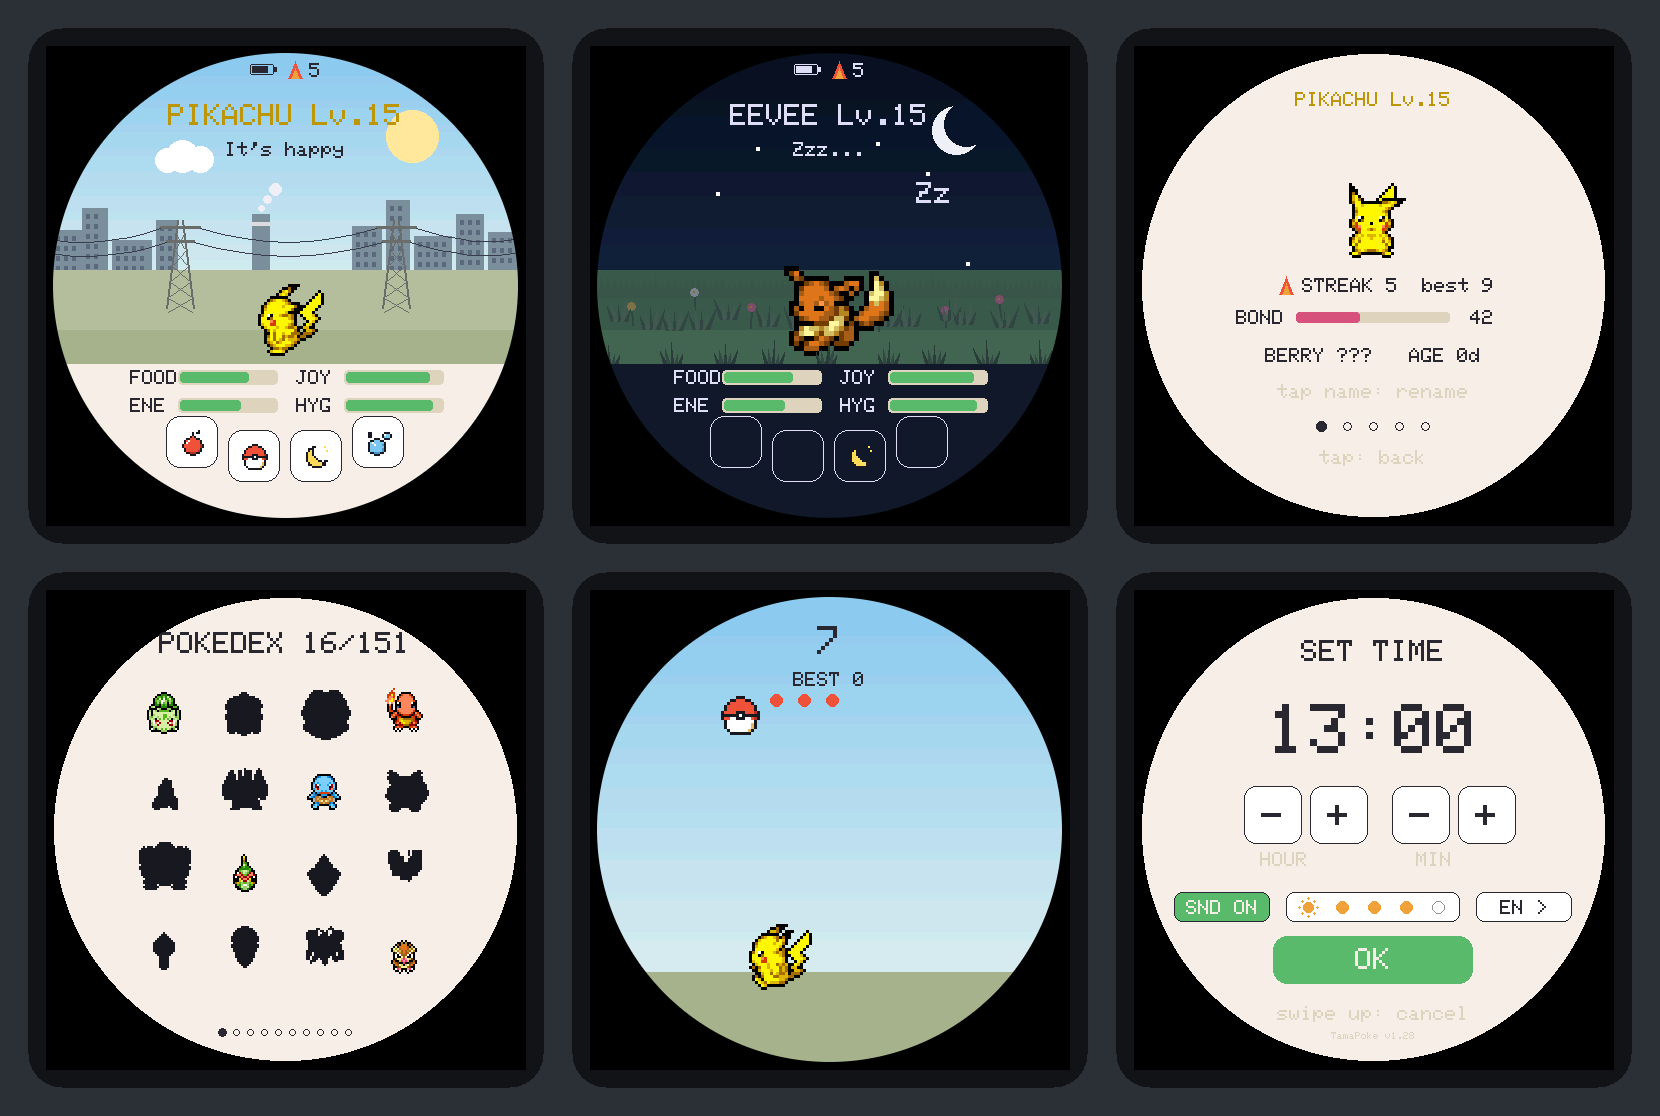
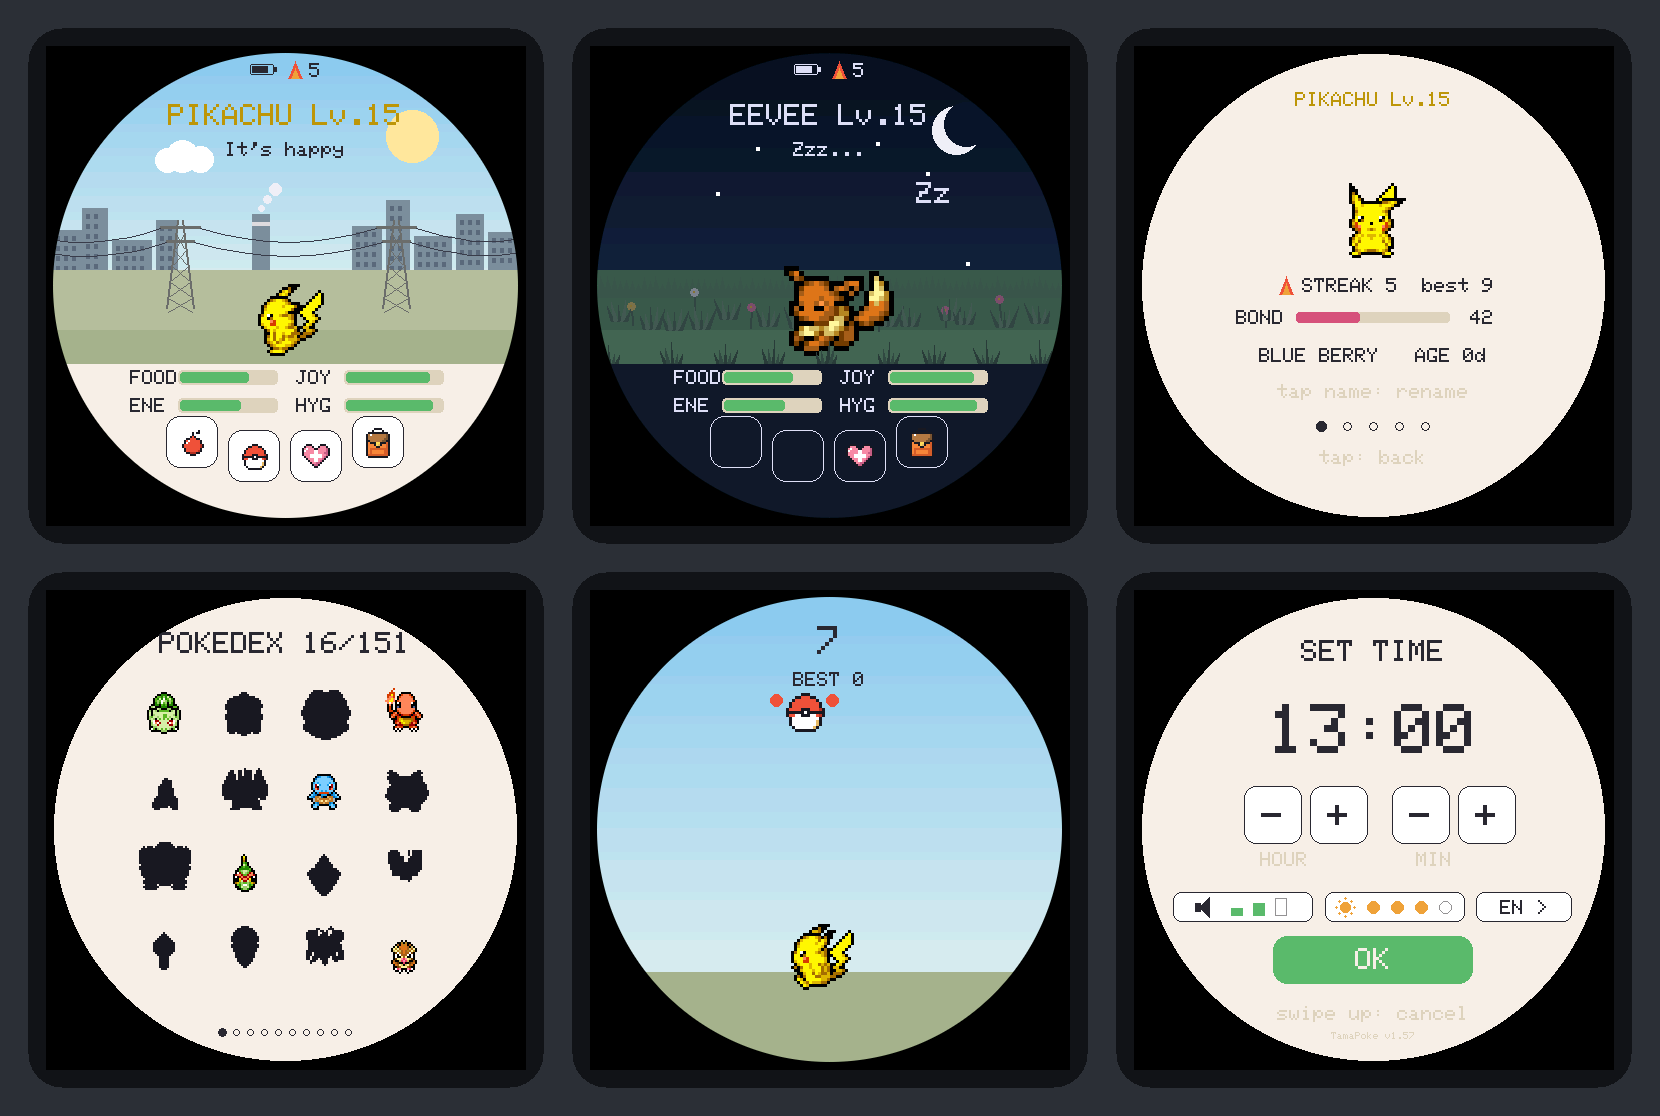
v1.57: review fixes for gifts, dialogs and battle saves; board checks
- openGift opens the first gift that fits, so one that doesn't fit no
  longer blocks the queue.
- The Box store dialog and animation, and the release note, count
  wrapped eggs (freeHome/endLife unwrap them).
- Battle end saves once: battleDrop only marks the save; bdD/bdN are
  written after the gifts.
- The cake hint only shows with no cakes; the food menu's x=365 edge.
- isKey before reading "gifts" (no error log on an older save).
- PENDING_TESTS rows 49-53 with the serial board checks; README sheet.

diff --git a/pet.cpp b/pet.cpp
@@ -898,19 +898,29 @@ uint8_t Pet::giftEggs() const {
   return n;
 }
 
+// el primero que quepa (v1.57, revision): uno que no cabe no tapa a los de detras. Si no cabe ninguno,
+// se ve el primero ("mochila llena") y todos siguen envueltos
+static bool giftFits(const uint8_t *items, uint8_t it) {
+  if (it == IT_CHARM && items[IT_CHARM]) it = IT_GOLDEN;  // dos amuletos: solo se lleva uno
+  return items[it] < ((it == IT_CHARM) ? 1 : ITEM_MAX);
+}
+
 uint8_t Pet::openGift(bool *full) {
   if (full) *full = false;
   if (!canOpenGift()) return IT_COUNT;
-  uint8_t it = gifts[0];
-  if (it == IT_CHARM && items[IT_CHARM]) it = IT_GOLDEN;  // dos amuletos envueltos: solo se lleva uno
-  uint8_t cap = (it == IT_CHARM) ? 1 : ITEM_MAX;
-  if (items[it] >= cap) {  // no cabe: se ve lo que es y se queda envuelto hasta que haya sitio
+  uint8_t k = 0;
+  while (k < giftN && !giftFits(items, gifts[k])) k++;
+  if (k == giftN) {  // no cabe ninguno: se ve lo que es el primero y se queda envuelto
+    uint8_t it = gifts[0];
+    if (it == IT_CHARM && items[IT_CHARM]) it = IT_GOLDEN;
     if (full) *full = true;
     queueFound(it, true, true);
     return it;
   }
+  uint8_t it = gifts[k];
+  if (it == IT_CHARM && items[IT_CHARM]) it = IT_GOLDEN;
   items[it]++;
-  for (uint8_t i = 1; i < giftN; i++) gifts[i - 1] = gifts[i];
+  for (uint8_t i = k + 1; i < giftN; i++) gifts[i - 1] = gifts[i];
   giftN--;
   heartUntil = millis() + HEART_MS;  // se alegra (sin premio: abrir no sube nada)
   queueFound(it, false, true);
@@ -1072,7 +1082,7 @@ uint8_t Pet::battleDrop(bool won) {
   uint8_t it = rollBattleItem();
   bdropToday++;
   giveGift(it);
-  save();  // fin de una pantalla de juego: se guarda ya
+  pendingSave = true;  // lo guarda quien cierra el combate (practiceDone o flushSave): una escritura
   return it;
 }
 
@@ -1161,8 +1171,6 @@ void Pet::save() {
   prefs.putUShort("eAt", eggAt);
   prefs.putUInt("bondD", bondDay);
   prefs.putUChar("bondT", bondToday);
-  prefs.putUInt("bdD", bdropDay);    // botin de combate de hoy (v1.56)
-  prefs.putUChar("bdN", bdropToday);
   prefs.putBool("vac", vacant);
   // caja (v1.37). El uid va el ULTIMO: la NVS escribe en orden, asi que si un corte de luz
   // deja el uid nuevo, todo lo demas del bicho ya esta escrito. boxBoot() se fia de eso para
@@ -1179,6 +1187,10 @@ void Pet::save() {
     memcpy(g + 1, gifts, giftN);
     prefs.putBytes("gifts", g, sizeof(g));
   }
+  // botin de combate de hoy (v1.56), despues de los regalos: un corte entre los dos da un botin de
+  // mas, nunca uno perdido
+  prefs.putUInt("bdD", bdropDay);
+  prefs.putUChar("bdN", bdropToday);
   prefs.putBool("eggH", eggHeldFlag);
 }
 
@@ -1263,7 +1275,8 @@ void Pet::load() {
   {
     uint8_t g[GIFT_MAX + 1] = { 0 };
     giftN = 0;
-    if (prefs.getBytes("gifts", g, sizeof(g)) == sizeof(g))
+    // isKey: un guardado anterior a la v1.55 no lo tiene, y getBytes lo anotaria como error en el log
+    if (prefs.isKey("gifts") && prefs.getBytes("gifts", g, sizeof(g)) == sizeof(g))
       for (uint8_t i = 0; i < g[0] && i < GIFT_MAX; i++)
         if (g[1 + i] < IT_COUNT) gifts[giftN++] = g[1 + i];
   }

diff --git a/test/test_gifts.cpp b/test/test_gifts.cpp
@@ -215,6 +215,8 @@ TEST(battle_drop, cinco_al_dia_y_al_dia_siguiente_otra_vez) {
   CHECK_EQ(p.battleDropsToday(), (uint8_t)BATTLE_DROPS_PER_DAY);
   CHECK_EQ(p.battleDrop(true), (uint8_t)IT_COUNT);  // la sexta victoria del dia, nada
   CHECK_EQ(p.giftCount(), (uint8_t)BATTLE_DROPS_PER_DAY);
+  CHECK(p.savePending());  // lo guarda quien cierra el combate: una sola escritura
+  p.flushSave();
   Pet q;  // el tope sobrevive a un reinicio
   q.begin();
   q.setClock(GDAY * 86400 + 11 * 3600);  // el reloj, como lo pone el arranque con el RTC
@@ -251,4 +253,21 @@ TEST(battle_drop, la_tabla_y_el_huevo_es_lo_mas_raro) {
   CHECK_EQ(p.rollBattleItem(), (uint8_t)IT_CHARM);
   mockForceRandom(99);
   CHECK_EQ(p.rollBattleItem(), (uint8_t)IT_EGG);
+}
+
+TEST(gifts, uno_que_no_cabe_no_tapa_a_los_de_detras) {
+  Pet p;
+  gBorn(p);
+  p.items[IT_EGG] = ITEM_MAX;
+  CHECK(p.addGift(IT_EGG));   // no cabe: los huevos solo salen de la mochila con la casa libre
+  CHECK(p.addGift(IT_CAKE));
+  bool full = true;
+  CHECK_EQ(p.openGift(&full), (uint8_t)IT_CAKE);
+  CHECK(!full);
+  CHECK_EQ(p.items[IT_CAKE], (uint8_t)1);
+  CHECK_EQ(p.giftCount(), (uint8_t)1);
+  CHECK_EQ(p.giftItem(0), (uint8_t)IT_EGG);
+  CHECK_EQ(p.openGift(&full), (uint8_t)IT_EGG);  // solo queda el que no cabe: lo dice y sigue ahi
+  CHECK(full);
+  CHECK_EQ(p.giftCount(), (uint8_t)1);
 }

diff --git a/test/test_eggs.cpp b/test/test_eggs.cpp
@@ -159,7 +159,8 @@ TEST(eggs, con_la_mochila_llena_espera_envuelto) {
   CHECK_EQ(p.items[IT_EGG], (uint8_t)ITEM_MAX);
   CHECK_EQ(p.giftEggs(), (uint8_t)1);
   bool full = false;
-  while (p.giftItem(0) != IT_EGG) p.openGift();  // lo encontrado antes por el camino
+  while (p.giftCount() > 1) p.openGift();  // lo demas del camino cabe y se abre antes (v1.57)
+  CHECK_EQ(p.giftItem(0), (uint8_t)IT_EGG);
   CHECK_EQ(p.openGift(&full), (uint8_t)IT_EGG);
   CHECK(full);
   CHECK_EQ(p.giftEggs(), (uint8_t)1);

diff --git a/docs/PENDING_TESTS.md b/docs/PENDING_TESTS.md
@@ -55,6 +55,11 @@ Write the result on each line: a tick, or what you saw.
 | 46 | v1.51 faster curve: the existing pet and the Box pets keep their level and bar after the flash (`STATS`, `BOX`), nothing moves on a second restart, shorter "N min to Lv.X" | [Levels](DEVICE_TESTS.md#levels-v135) | serial ✓ (2026-11-11): Haunter Lv 41 47/145 → Lv 41 31/98; Box Dugtrio 28, Scyther 15, Mew 24, Slowpoke 12 kept, crc ok; a restart changes nothing. Progress card look ✓ (user, 2026-11-14) |
 | 47 | v1.52 volume pill: off / low / mid / high by ear, kept after a restart, EN and ES layout | [Save, time, sound, SD](DEVICE_TESTS.md#save-time-sound-sd) | ✓ works perfect (user, 2026-11-14) |
 | 48 | v1.52 alert sounds: plop on a new poop, triple beep when a need hits 0, also with the screen dark; silent asleep and at boot | [Save, time, sound, SD](DEVICE_TESTS.md#save-time-sound-sd) | ✓ works as intended (user, 2026-11-14) |
+| 49 | v1.53 Care menu and Backpack: Care (heart) opens moon / bubbles; asleep the sun wakes it and the bath is grey; the Backpack button opens its screen (8 slots, counts, "Use X?"), also asleep (look only); EN and ES | [Care menu and Backpack](DEVICE_TESTS.md#care-menu-and-backpack-v153) | serial ✓ (2026-11-14, Dugtrio Lv.41 on a backed-up save, written back after): flashed over v1.52 the save was kept (pet, Backpack, eggs 1+1, Box 4/6); `TAP` Care → `BTN 2`, sun slot → awake (`sleep=0`); Backpack → `BTN 3`. By touch (feel, sizes, the look): pending |
+| 50 | v1.54 cake: food menu 4th slot (badge with the count, grey with none + "No cake: walk or battle"), FOOD 100 and a pink bar for 3 h, +12 JOY / weight | [Cake](DEVICE_TESTS.md#cake-v154) | serial ✓ (2026-11-14): a cake from a gift, `TAP` on the slot → `com=100 fel=+12 sated=180 cake=0`; a second tap with none changed nothing. The look, and FOOD still full after ~3 h: pending |
+| 51 | v1.55 gifts: white boxes with red ribbons on the floor (pile of 3, "+N"), a tap opens one (pose, heart, "GIFT!"), asleep it waits, "Backpack full" keeps it wrapped, finds on a real walk arrive as gifts | [Gifts](DEVICE_TESTS.md#gifts-v155) | serial ✓ (2026-11-14): `GIFT 7` + `TAP 400 280` → `GIFT open 7`, cake in the Backpack; home draw 15.0 ms with 5 gifts (as before). The look and a real walk: pending |
+| 52 | v1.56 battle loot: "A gift at home!" under "YOU WIN!", ~7 wins in 10, at most 5 a day, none on a loss | [Battle loot](DEVICE_TESTS.md#battle-loot-v156) | serial ✓ (2026-11-14): 12 battles vs Magikarp, 11 wins: loot 0/7/3/0/7 on wins (5 of 9 before the cap), nothing on the loss, nothing after the 5th of the day. The pill's look: pending |
+| 53 | v1.57 favourite berry: gold frame + star in the food menu once known; "Its tastes changed!" after an evolution that changes it | [Favourite berry star](DEVICE_TESTS.md#favourite-berry-star-v157) | renders ✓; on the board: pending |
 
 Questions only the board can answer:
 - Where is the USB-C port relative to the screen's top? Bottom edge (buttons on top).

diff --git a/CHANGELOG.md b/CHANGELOG.md
@@ -22,6 +22,20 @@ keeps your Pokémon.
   evolving changes the favourite, it becomes a secret again (the card says "BERRY ???", no star) and
   the status says "Its tastes changed!" once the animation ends. If the favourite stays the same, it
   stays known. The Berry medal is kept.
+- A gift that doesn't fit no longer blocks the others: a tap opens the first one that fits (only when
+  none fits does the popup say "Backpack full").
+- The Box's "Store?" dialog and the release dialog counted only the eggs in the Backpack: with a
+  wrapped egg they said "No egg: home stays empty", and then the egg came home. They count it now.
+- The end of a battle writes the save once (loot and joy together) instead of twice; the loot count is
+  written after the gifts, so a power cut can't spend a loot without the gift.
+- No "No cake" hint when the cake is refused for another reason (the pet fell asleep with the menu
+  open). A tap on the food menu's right edge (1 px) no longer fed a berry that doesn't exist.
+- The first boot after updating no longer logs an error for the missing `gifts` key.
+
+### Note
+
+- **Don't downgrade below v1.54 with this save.** The Backpack grew to 8 items (the cake), and older
+  firmware reads the longer Backpack as empty and overwrites it.
 
 ## [1.56] - 2026-11-14
 

diff --git a/README.md b/README.md
@@ -332,8 +332,8 @@ waving it around doesn't farm anything.
   day; the goals' gifts come on top). Since v1.55 each find arrives **wrapped**: a small white box
   with a red ribbon on the floor of the home screen, to the right (up to 3 in a pile, "+N" for
   more). **Tap a gift** with the pet awake to open it: the pet is happy, "GIFT!" shows what it was,
-  and it goes into the Backpack (tap to dismiss). Asleep, gifts wait. With a full Backpack the popup
-  says so and the gift stays wrapped until there's room. Up to 8 wait unopened (kept across
+  and it goes into the Backpack (tap to dismiss). Asleep, gifts wait. A tap opens the first gift that
+  fits; when none fits, the popup says "Backpack full" and they stay wrapped until there's room. Up to 8 wait unopened (kept across
   restarts); past that a find goes straight into the Backpack with the popup. When the home is left
   empty (an ending, or the pet stored in the Box), gifts unwrap themselves into the Backpack, and a
   wrapped egg counts as one of your eggs.
